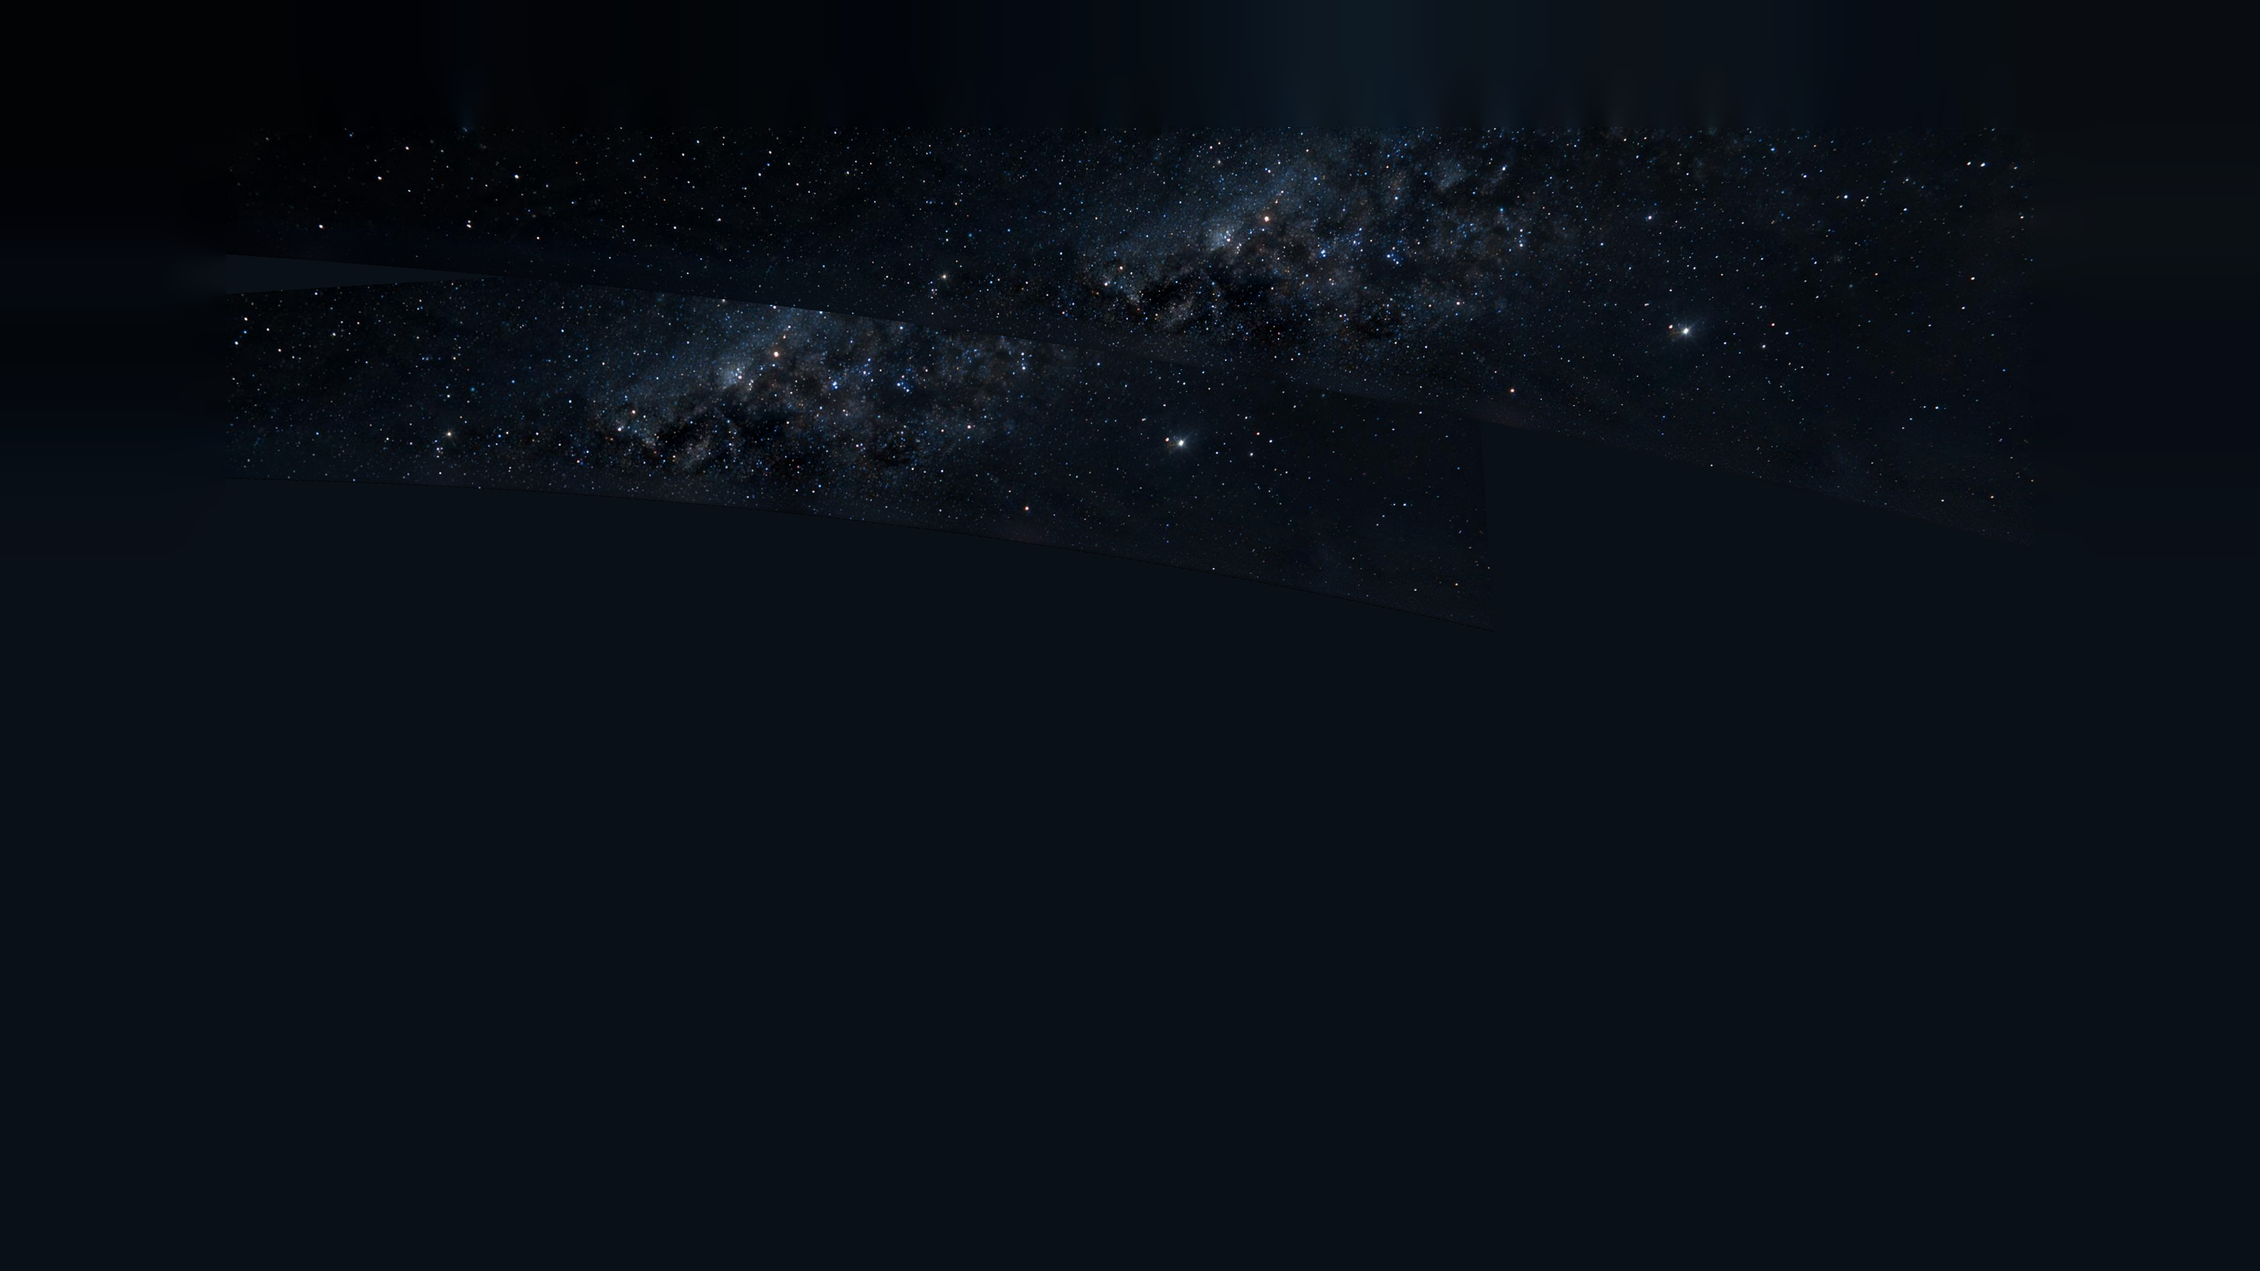
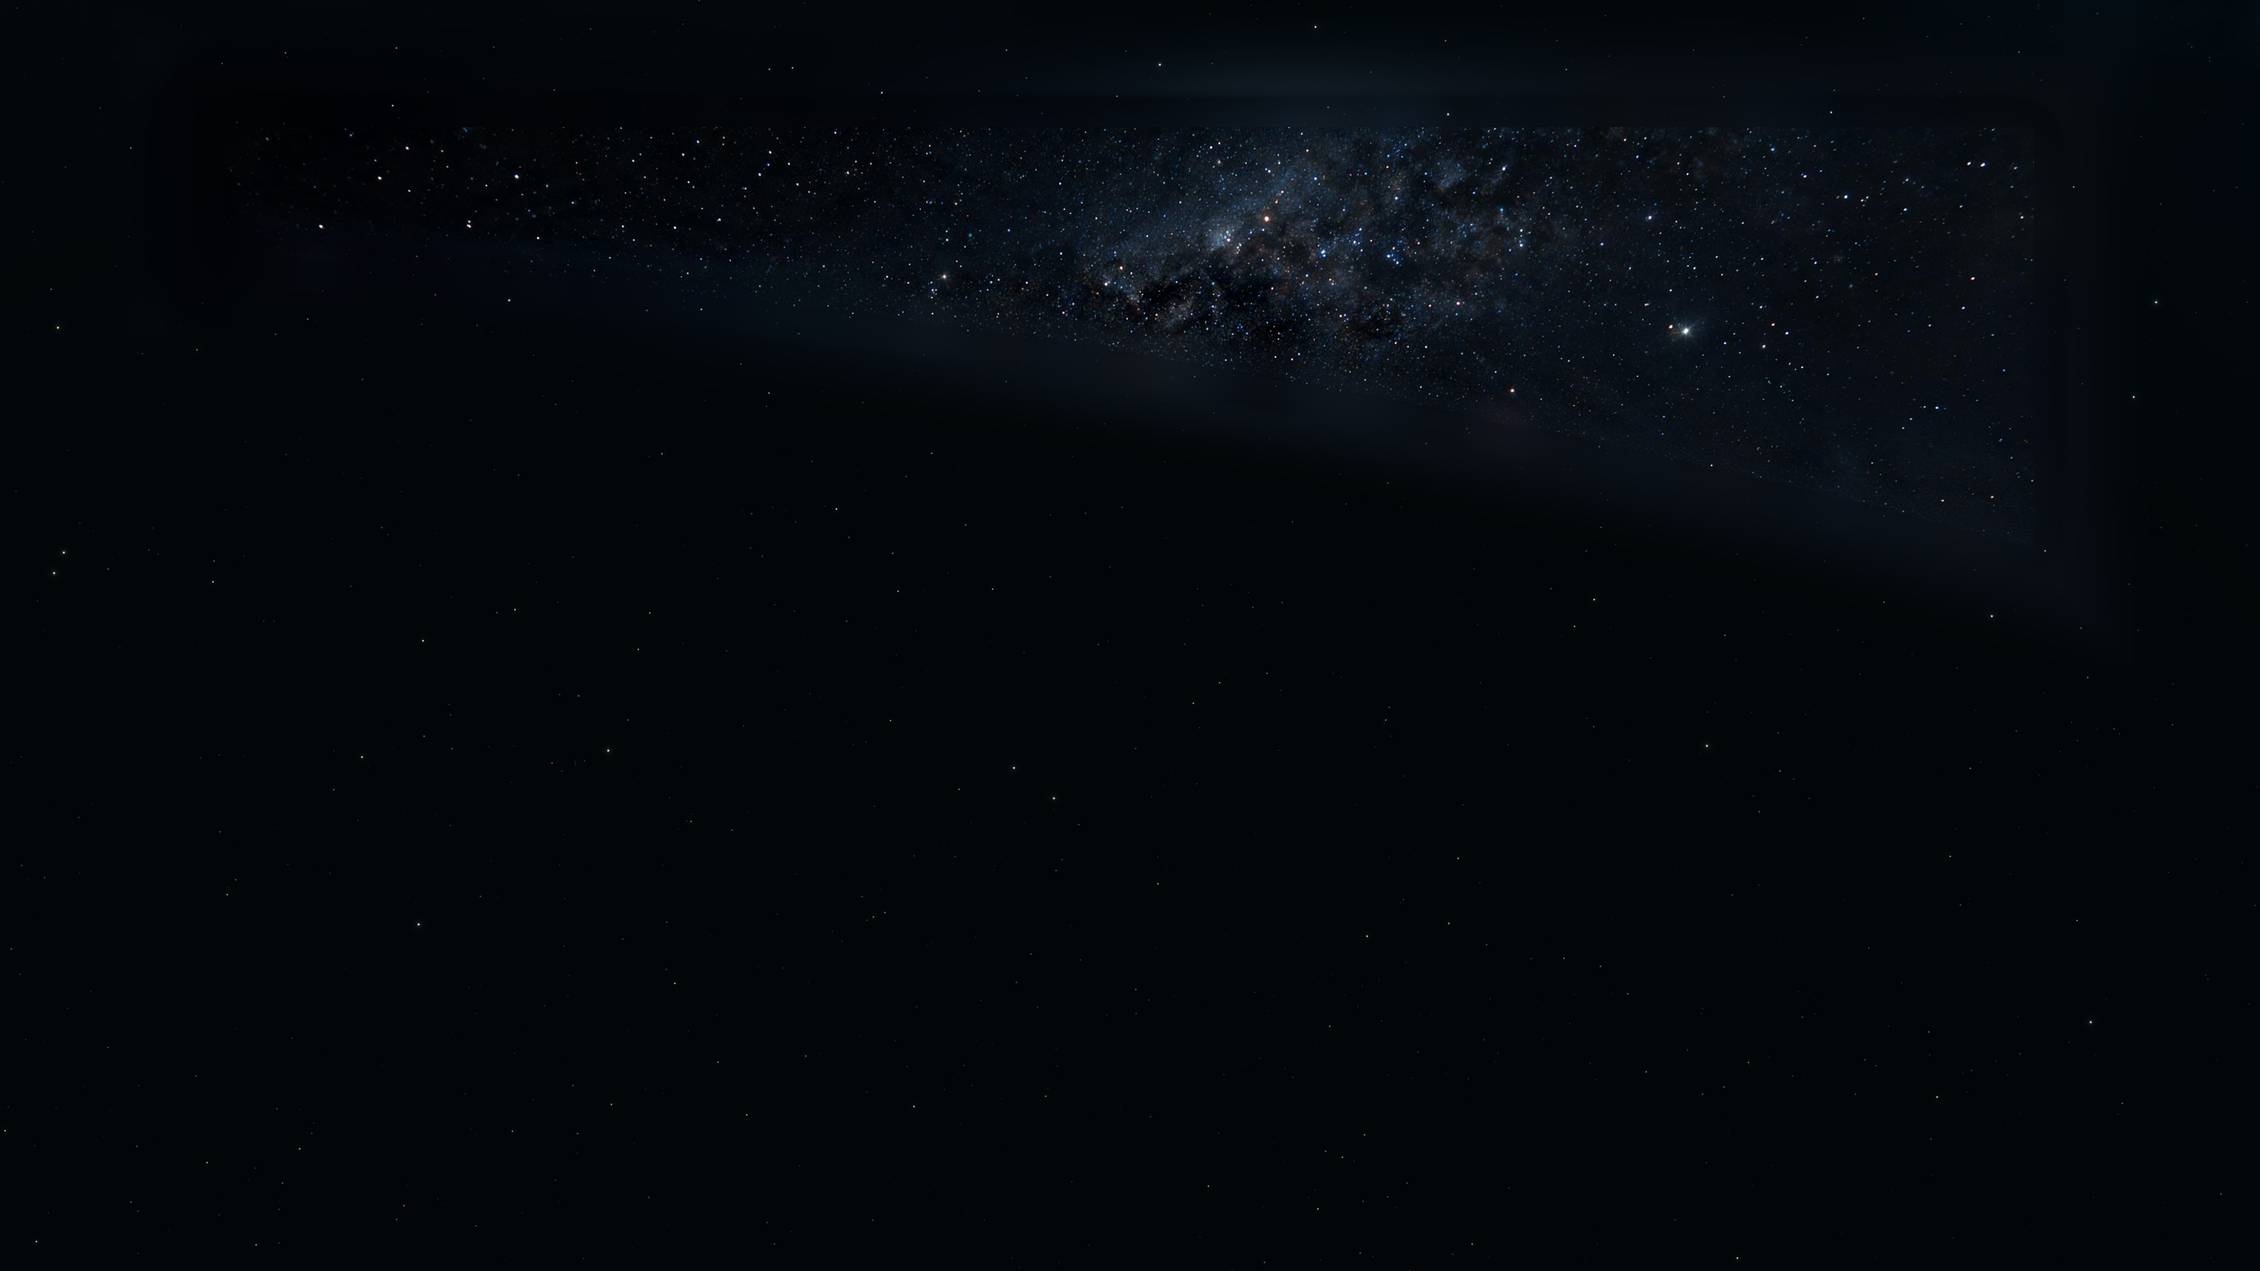
Neptune round 3, terrain sky: live sky re-aimed to a calm field, lifted copy removed, patch fades to a render of the live sky

Changed region(s): [[0.1875, 0.2465, 0.4688, 0.4005], [0.5625, 0.0, 0.625, 0.0308], [0.5, 0.3389, 0.5312, 0.3697]]

diff --git a/assets-src/neptune/check/skyreach.ts b/assets-src/neptune/check/skyreach.ts
@@ -1,0 +1,44 @@
+import * as THREE from 'three'
+import { config } from '../../../src/config'
+import { plans } from '../../../src/director/plans'
+const plan = plans.find((p) => p.id === 'neptune')!
+const fps = config.fps
+const argv = process.argv.slice(2)
+const from = Number(argv[0] ?? 4734)
+const to = Number(argv[1] ?? 4980)
+const every = Number(argv[2] ?? 6)
+const shot = (time: number) => {
+  const d = plan.seg.dive!
+  if (time < d.end) return plan.dive(time)
+  if (time < plan.seg.terrain.end) return { pose: plan.terrain(time - plan.seg.terrain.start), view: 'terrain' }
+  return plan.rise(time)
+}
+const ref = plan.terrain((plan.seg.terrain.start + plan.seg.terrain.end) / 2 - plan.seg.terrain.start)
+const inv = ref.quaternion.clone().invert()
+const ty = Math.tan((15 * Math.PI) / 180)
+const tx = (ty * 16) / 9
+let lo = [9, 9]
+let hi = [-9, -9]
+console.log('frame view  left  right  top  bottom of the frame in units of the approved frame (0 to 1, top 0)')
+for (let f = from; f <= to; f += every) {
+  const s = shot(f / fps)
+  if (s.view !== 'terrain') continue
+  const fov = (s.pose as { fov?: number }).fov ?? 30
+  const sy = Math.tan((fov * Math.PI) / 360)
+  const sx = (sy * 16) / 9
+  let a = [9, 9]
+  let b = [-9, -9]
+  for (let i = 0; i <= 8; i++) for (let j = 0; j <= 8; j++) {
+    if (i > 0 && i < 8 && j > 0 && j < 8) continue
+    const d = new THREE.Vector3((i / 4 - 1) * sx, (1 - j / 4) * sy, -1).normalize().applyQuaternion(s.pose.quaternion).applyQuaternion(inv)
+    if (d.z > -0.05) continue
+    const u = (d.x / -d.z / tx + 1) / 2
+    const v = (1 - d.y / -d.z / ty) / 2
+    a = [Math.min(a[0]!, u), Math.min(a[1]!, v)]
+    b = [Math.max(b[0]!, u), Math.max(b[1]!, v)]
+  }
+  lo = [Math.min(lo[0]!, a[0]!), Math.min(lo[1]!, a[1]!)]
+  hi = [Math.max(hi[0]!, b[0]!), Math.max(hi[1]!, b[1]!)]
+  console.log(String(f).padStart(5), s.view, a[0]!.toFixed(3).padStart(7), b[0]!.toFixed(3).padStart(7), a[1]!.toFixed(3).padStart(7), b[1]!.toFixed(3).padStart(7))
+}
+console.log('reach', lo.map((x) => x.toFixed(3)).join(' '), hi.map((x) => x.toFixed(3)).join(' '))

diff --git a/assets-src/neptune/prompts/sky-ext.js b/assets-src/neptune/prompts/sky-ext.js
@@ -1,0 +1,10 @@
+const prompt = "Image 1 is a photograph of a night sky full of stars, placed in the upper part of a larger canvas. The photograph is a wide strip whose lower edge is cut along a slanted, slightly curved line. Around it lies a broad band of flat magenta (#FF00FF): above it, to its left, to its right and below its slanted lower edge. Outside the magenta the canvas is a darker, emptier night sky with only a few faint stars. Paint over all of the magenta so the whole canvas becomes one continuous view of the same night sky: continue the dense field of fine pinpoint stars and the soft blue-grey Milky Way cloud with its dark dust lanes outward from the photograph in every direction, above it, to the sides and especially downward below the slanted edge, with the same brightness, colours, grain and star sizes, so that the edges of the photograph cannot be found. Farther from the photograph let the Milky Way cloud thin out gradually into the darker, emptier sky that surrounds the magenta, with no visible boundary. The new parts must be new sky, not a mirror image or a repeat of the photograph. Keep the photograph exactly as it is, with every star in the same place, and keep the darker sky outside the magenta as it is. No magenta may remain anywhere. Near-black blue background. No planet, no horizon, no ground, no sun, no moon, no bright nebula, no glow, no text, no border, no frame.";
+let r;
+try {
+  r = await tools.generate_image({ prompt, filename: 'gen/neptune-sky-ext-t1', model: 'seedream_5', aspect_ratio: '16:9', images: ['/home/user/workspace/gen/neptune-sky-ext-in.jpg'] });
+} catch (e) {
+  text('first model failed: ' + String(e));
+  r = await tools.generate_image({ prompt, filename: 'gen/neptune-sky-ext-t1', aspect_ratio: '16:9', images: ['/home/user/workspace/gen/neptune-sky-ext-in.jpg'] });
+}
+const { image_urls, ...rest } = r;
+text(JSON.stringify(rest).slice(0, 800));

diff --git a/src/stops/neptune/plan.ts b/src/stops/neptune/plan.ts
@@ -10,7 +10,7 @@ export const params: MoveParams = {
   travel: { turnDeg: 0, side: 1 },
   arrive: { swingDeg: -34, axis: [0.1, 1, 0.2], from: 0.25, offset: [0.5, 0.2] },
   light: { exposure: 1, skyExposure: 0.65, sunRadiusDeg: 0.14, sunGlare: 0.6, flare: 0 },
-  skyAim: { orbit: [25.78793, 56.89437, -50.63077], terrain: [69.21908, 138.80252, 8.78195] },
+  skyAim: { orbit: [25.78793, 56.89437, -50.63077], terrain: [180, -12, 40] },
   cover: [0.27, 0.43, 0.8],
   coverLow: [0.03, 0.075, 0.22],
   coverTerrain: [0.4, 0.56, 0.85],

diff --git a/assets-src/neptune/sky/terrain.py b/assets-src/neptune/sky/terrain.py
@@ -10,7 +10,9 @@ sys.path.insert(0, os.path.dirname(__file__))
 sys.path.insert(0, os.path.join(os.path.dirname(__file__), '..', 'terrain'))
 import cgeo
 from deblock import deblock
-from patch import film, unfilm, to_linear, to_srgb, step, outward
+from patch import film, unfilm, to_linear, to_srgb, step
+
+Image.MAX_IMAGE_PIXELS = None
 
 FULL = (2816, 1584)
 MARGIN = 0.125
@@ -18,8 +20,14 @@ GLOW_TOP = 0.012
 AZIMUTH = np.radians(80)
 MAP = (512, 64)
 CUT = 0.06
-BELOW = (6.0, 14.0)
 GLOW_SMOOTH = (45, 41, 5)
+LIVE = 'out/work/nep/r3/live-u.png'
+REACH = (30, 120)
+ZONE_OUT = (60, 230)
+ZONE_UNDER = (2.5, 8.0)
+GEN_IN = 'out/work/nep/r3/sky-ext-in.jpg'
+GEN = 'out/work/nep/r3/sky-ext.png'
+ASK = (3072, 1728)
 OUT = sys.argv[1] if len(sys.argv) > 1 else 'public/assets/neptune'
 
 
@@ -93,26 +101,65 @@ sky = (far_flat + stars) * (1 - k) + sky * k
 alpha = np.radians(cgeo.FIT['alphaDeg']) + np.radians(CUT)
 theta = np.arccos(np.clip(d @ cgeo.NADIR, -1, 1))
 above = theta > alpha
-lifted = theta + np.radians(BELOW[0])
-horiz = d - (d @ cgeo.NADIR)[..., None] * cgeo.NADIR
-horiz /= np.maximum(np.linalg.norm(horiz, axis=-1, keepdims=True), 1e-6)
-horiz = horiz * np.cos(np.radians(BELOW[1])) + np.cross(cgeo.NADIR, horiz) * np.sin(np.radians(BELOW[1]))
-md = np.cos(lifted)[..., None] * cgeo.NADIR + np.sin(lifted)[..., None] * horiz
-px = ((md[..., 0] / -md[..., 2]) / cgeo.TX + 1) / 2 * w - 0.5
-py = (1 - (md[..., 1] / -md[..., 2]) / cgeo.TY) / 2 * h - 0.5
-bad = (md[..., 2] > -0.2) | (px < 0) | (px > w - 1) | (py < 0) | (py > h - 1)
-src = np.where(above[..., None], sky, 0).astype(np.float32)
-fill = cv2.remap(src, np.where(bad, 0, px).astype(np.float32), np.where(bad, 0, py).astype(np.float32), cv2.INTER_LINEAR, borderMode=cv2.BORDER_CONSTANT)
-level = np.stack([np.median(far_flat[..., c][above]) for c in range(3)]).astype(np.float32)
-fill = np.where((bad | (fill.sum(-1) <= 0))[..., None], level, fill)
-lin = np.where(above[..., None], sky, fill)
 
 px_m, py_m = round(w * MARGIN), round(h * MARGIN)
-wide, _ = outward(lin, px_m, py_m)
+cw, ch = w + 2 * px_m, h + 2 * py_m
+live = np.asarray(Image.open(LIVE).convert('RGB').resize((cw, ch), Image.LANCZOS)).astype(np.float32) / 255
+live = to_linear(live).astype(np.float32)
+live_bg = np.stack([low(live[..., c], 5) for c in range(3)], -1)
+live_stars = np.maximum(live - live_bg, 0)
+
+cy, cx = np.mgrid[0:ch, 0:cw]
+dc = np.stack([(2 * (cx + 0.5) / cw - 1) * cgeo.TX * (1 + 2 * MARGIN), (1 - 2 * (cy + 0.5) / ch) * cgeo.TY * (1 + 2 * MARGIN), -np.ones(cx.shape)], -1)
+dc /= np.linalg.norm(dc, axis=-1, keepdims=True)
+under = np.degrees(alpha - np.arccos(np.clip(dc @ cgeo.NADIR, -1, 1))).astype(np.float32)
+away = np.maximum.reduce([py_m - cy, cy - (py_m + h - 1), px_m - cx, cx - (px_m + w - 1), np.zeros_like(cy)]).astype(np.float32)
+del dc
+own = np.zeros((ch, cw), bool)
+own[py_m:py_m + h, px_m:px_m + w] = above
+mine = np.zeros((ch, cw, 3), np.float32)
+mine[py_m:py_m + h, px_m:px_m + w] = np.where(above[..., None], sky, far_flat)
+calm = np.stack([low(mine[..., c], 6) for c in range(3)], -1) * own[..., None]
+ext = np.zeros_like(mine)
+got = np.zeros((ch, cw), np.float32)
+for sigma in REACH:
+    den = ndi.gaussian_filter(own.astype(np.float32), sigma)
+    part = np.stack([ndi.gaussian_filter(calm[..., c], sigma) for c in range(3)], -1) / np.maximum(den, 1e-4)[..., None]
+    k = step(den, 0.01, 0.08) * (1 - got)
+    ext += part * k[..., None]
+    got += k
+level = np.stack([np.median(far_flat[..., c][above]) for c in range(3)]).astype(np.float32)
+ext += level * (1 - got)[..., None]
+to_live = np.maximum(step(away, ZONE_OUT[0], ZONE_OUT[1]), step(under, ZONE_UNDER[0], ZONE_UNDER[1]))
+to_live[own] = 0
+if not os.path.exists(GEN):
+    ask = to_srgb(film(np.where(own[..., None], mine, live)))
+    ask[~own & (to_live < 1)] = (1, 0, 1)
+    Image.fromarray((ask * 255 + 0.5).astype(np.uint8)).resize(ASK, Image.LANCZOS).save(GEN_IN, quality=96)
+    print('wrote', GEN_IN, 'generate', GEN, 'from it, then run again')
+    sys.exit(0)
+gen = np.asarray(Image.open(GEN).convert('RGB').resize((cw, ch), Image.LANCZOS)).astype(np.float32) / 255
+ref = to_srgb(film(mine)).astype(np.float32)
+grey = lambda x: cv2.GaussianBlur(x.mean(-1), (0, 0), 2)
+warp = np.eye(2, 3, dtype=np.float32)
+cc, warp = cv2.findTransformECC(grey(ref), grey(gen), warp, cv2.MOTION_AFFINE, (cv2.TERM_CRITERIA_EPS | cv2.TERM_CRITERIA_COUNT, 200, 1e-6), own.astype(np.uint8), 5)
+gen = cv2.warpAffine(gen, warp, (cw, ch), flags=cv2.INTER_LINEAR | cv2.WARP_INVERSE_MAP, borderMode=cv2.BORDER_REFLECT)
+gen = unfilm(to_linear(np.clip(gen, 0, 1))).astype(np.float32)
+gen_calm = np.stack([low(gen[..., c], 6) for c in range(3)], -1)
+gen_fine = gen - np.stack([ndi.gaussian_filter(gen_calm[..., c], REACH[0]) for c in range(3)], -1)
+inner = ndi.binary_erosion(own, iterations=12)
+fine_gain = float(np.maximum(mine - calm, 0)[inner].mean() / max(np.maximum(gen - gen_calm, 0)[inner].mean(), 1e-6))
+print('generated sky registered', round(float(cc), 4), 'fine detail of the approved image over the generated', round(fine_gain, 3))
+fine_gain = float(np.clip(fine_gain, 0.5, 2.0))
+keep = (1 - to_live)[..., None]
+zone = np.maximum(ext * keep + live_bg * (1 - keep) + gen_fine * fine_gain * keep, 0) + live_stars * (1 - keep)
+wide = np.where(own[..., None], mine, zone)
+print('sky level of the approved image', (to_srgb(film(level)) * 255).round(1), 'of the live plate', (to_srgb(film(np.median(live_bg[~own], 0))) * 255).round(1))
+lin = wide[py_m:py_m + h, px_m:px_m + w]
 out = Image.fromarray((to_srgb(film(wide)) * 255 + 0.5).astype(np.uint8))
 for key, k in (('full', 1), ('web', 2)):
     im = out if k == 1 else out.resize((out.size[0] // k, out.size[1] // k), Image.LANCZOS)
     im.save(f'{OUT}/{key}/sky-terrain.webp', lossless=True, quality=90, method=6)
     print(key, im.size, round(os.path.getsize(f'{OUT}/{key}/sky-terrain.webp') / 1e6, 2), 'MB')
-Image.fromarray((to_srgb(film(lin)) * 255 + 0.5).astype(np.uint8)).resize((1408, 792)).save('out/work/nep/terrain/sky-terrain-preview.jpg', quality=88)
+Image.fromarray((to_srgb(film(wide)) * 255 + 0.5).astype(np.uint8)).resize((1760, 990)).save('out/work/nep/terrain/sky-terrain-preview.jpg', quality=88)
 Image.fromarray(np.kron(png[::-1], np.ones((4, 2, 1), np.uint8))).save('out/work/nep/terrain/glow-preview.png')

diff --git a/assets-src/neptune/NOTES.md b/assets-src/neptune/NOTES.md
@@ -296,3 +296,13 @@ Crop `out/work/nep/triton-cmp.jpg` (approved left, film right, 3x, frame 4605 at
 - Hold against the hero, measured by template match in seven regions of the disc: the film sits (3, -1) px from the hero everywhere, correlation 0.89 to 0.97. Left as it is.
 - 11:57, twilight tufts (R1 item 3, second half). Seen at 4x: the hero's brightest tuft just past the terminator (frame 797, 750) is near white and textured, the film's was a flat grey shape; dark blotches lay round the tufts. Two causes in `wrap/sepmap.py`. (1) The cloud curve at ndl -0.03 to 0 was 0.06 where the hero's top 0.05 percent is (0.237, 0.242, 0.230), so the opacity hit 1 and the colour was the curve's grey. `LIFT` raises knots 15 to 18 (ndl -0.0625 to 0.125); a first try that also made knots 17 to 19 neutral took 16 levels of blue out of the bluish tufts at ndl 0.1, so those knots keep the old hue at 1.4 to 1.7 times the level. The cloud mask uses the curve without the lift so the deck is the same. (2) `directional_fill` returned black where no lit deck lies within its reach (the strip ndl -0.06 to 0.06 under the mask): those were the black blotches the R1 critic named. The fill now falls back to the local 40th percentile of the albedo. Maps rebuilt (`sepmap.py` 30 s, `assemble.py` 30 s, `patches/bake.py` 90 s); backup of the 11:19 maps in `out/work/nep/backup-1157/`. Recomposite error mean 1.21 p99 16 (unchanged). Top 60 pixels by red, sRGB, approved against before against after: main tuft 111 116 115, 72 80 92, 114 117 120; far left tufts 116 132 153, 106 125 150, 108 127 152. Crops `out/work/nep/tuft4-b.jpg`, `tuft4-c.jpg` (approved, before, after; c boosted 2.5): blotches gone, tufts white with texture. `field.json` not refitted (twilight error against the hero 3.54 to 3.50, disc 4.47 to 4.47).
 - 12:10, generated cirrus under the lifted curve: at 5006 and 5200 the generated streaks along the terminator came out brighter than before (they sit under the same curve). `assemble.py` now multiplies the generated opacity by the ratio of the curve without the lift to the curve with it at each texel's ndl (0.27 at ndl 0). The hero's own cirrus is not touched. After: 4605 against the round 2 build mean difference 0.30 levels, 0.68 percent of pixels over 4 (the tufts); 5006 0.27 and 1.05 percent; 5200 draft 0.05 and 0.22 percent (the terminator streaks on the crescent are a little brighter grey white, `out/work/nep/twi-5200-d.jpg`). 4707 looks the same as before (`twi-4707.jpg`). Looks pushed 12:15. Measure started 12:15 (`out/work/nep/measure-r2b.log`).
+- 12:29, ROUND 14 RESULT (my round 2 of 3, judged on main c57f694 = 1fa3648): R1 7, R3 5 (6 and 5), R4 4, R2 pass, R8 pass, measures green. Round 3 is the last. Scorecard `scorecards/round-014/SUMMARY.md` (25 issues). The Builder's order: 1, 2, 4, 3, then the rest.
+  1. R4 severe, terrain 4851 to 4970: the top edge of the terrain sky patch comes down into frame as a straight seam (shared sky brighter and denser above, the close image's darker sky below, at about 12 percent of frame height); from 4957 the left border of the relief shows as a dark wedge at the left frame edge under the start of the white ridge. Fix: wide fade zone outside the approved border at matched level (Venus: larger canvas, approved pixels untouched, a generated zone, then a render of the live shared sky) or keep the pitch inside the patch; hold or extend the left apron.
+  2. R4 severe, rise 4975 to 4997: before and after the cover are not one move (dark navy deck lit from upper right before, pale cyan globe lit from upper left after, 13 frames from the deck to the whole globe, Triton lit from straight above). Fix: start the climb in the last terrain frames, carry colour, exposure, horizon tilt and the Sun's side across the cover, thin the cover over ten frames or more, spread the pullback over more frames, light Triton from the film's Sun in the rise. Also R4 major 4984 to 4997: stepped radial smear streaks.
+  3. R4 major, dive 4720 to 4745: cover already full at 4729 (it must come on inside its window), luminance pop of about 40 levels upper centre between 4731 and 4732, steep plunge at 4720 against a level skim at 4736. Fix: bend the pitch toward the limb before the cover so a horizon is in frame on both sides; remove the step in the cover's light.
+  4. Hold 4605 (R1 major three times, R3 major, one juror): limb glow falls off sooner, ring arcs dimmer and softer; a deep blue trough between the bright globe edge and a second thin cyan contour (lower right limb, crop x 1480 to 1920, y 640 to 1080; also 4707); ring loses 3D ellipse lower right. Triton 2 px right, 3 px down, lit face brighter and softer. Disc 2 px right 1 px up (minor).
+  5. R3 major, dive 4707: a thin broken blue green arc across the stars and the ring at the extreme right; eye a pinched spiral of smeared texture, white hook hard speckles; blocky dark patches toward the terminator (minor).
+  6. R3 major, rise 5006: Triton soft, terminator a straight hard cut, night half a dark disc against the sky; rings smeared strokes with doubled edges; cirrus short scratches over an airbrushed base, storm pasted with a hard white rim; sky grid when brightened (check at native size; if nothing, say so).
+  7. R4 major, terrain 4770 to 4949: ridge and storm slide at the same rate like a flat plate, flow warp bloats the white puffs. More depth between ridge and storm, less flow stretch on the puffs.
+  8. R3 on 4860 (approved wins): eye featureless, right bank shadow offset, foreground muddy, painterly curls; R1 minors: one level brighter, 2 to 4 px right. Do not chase past the approved image.
+
